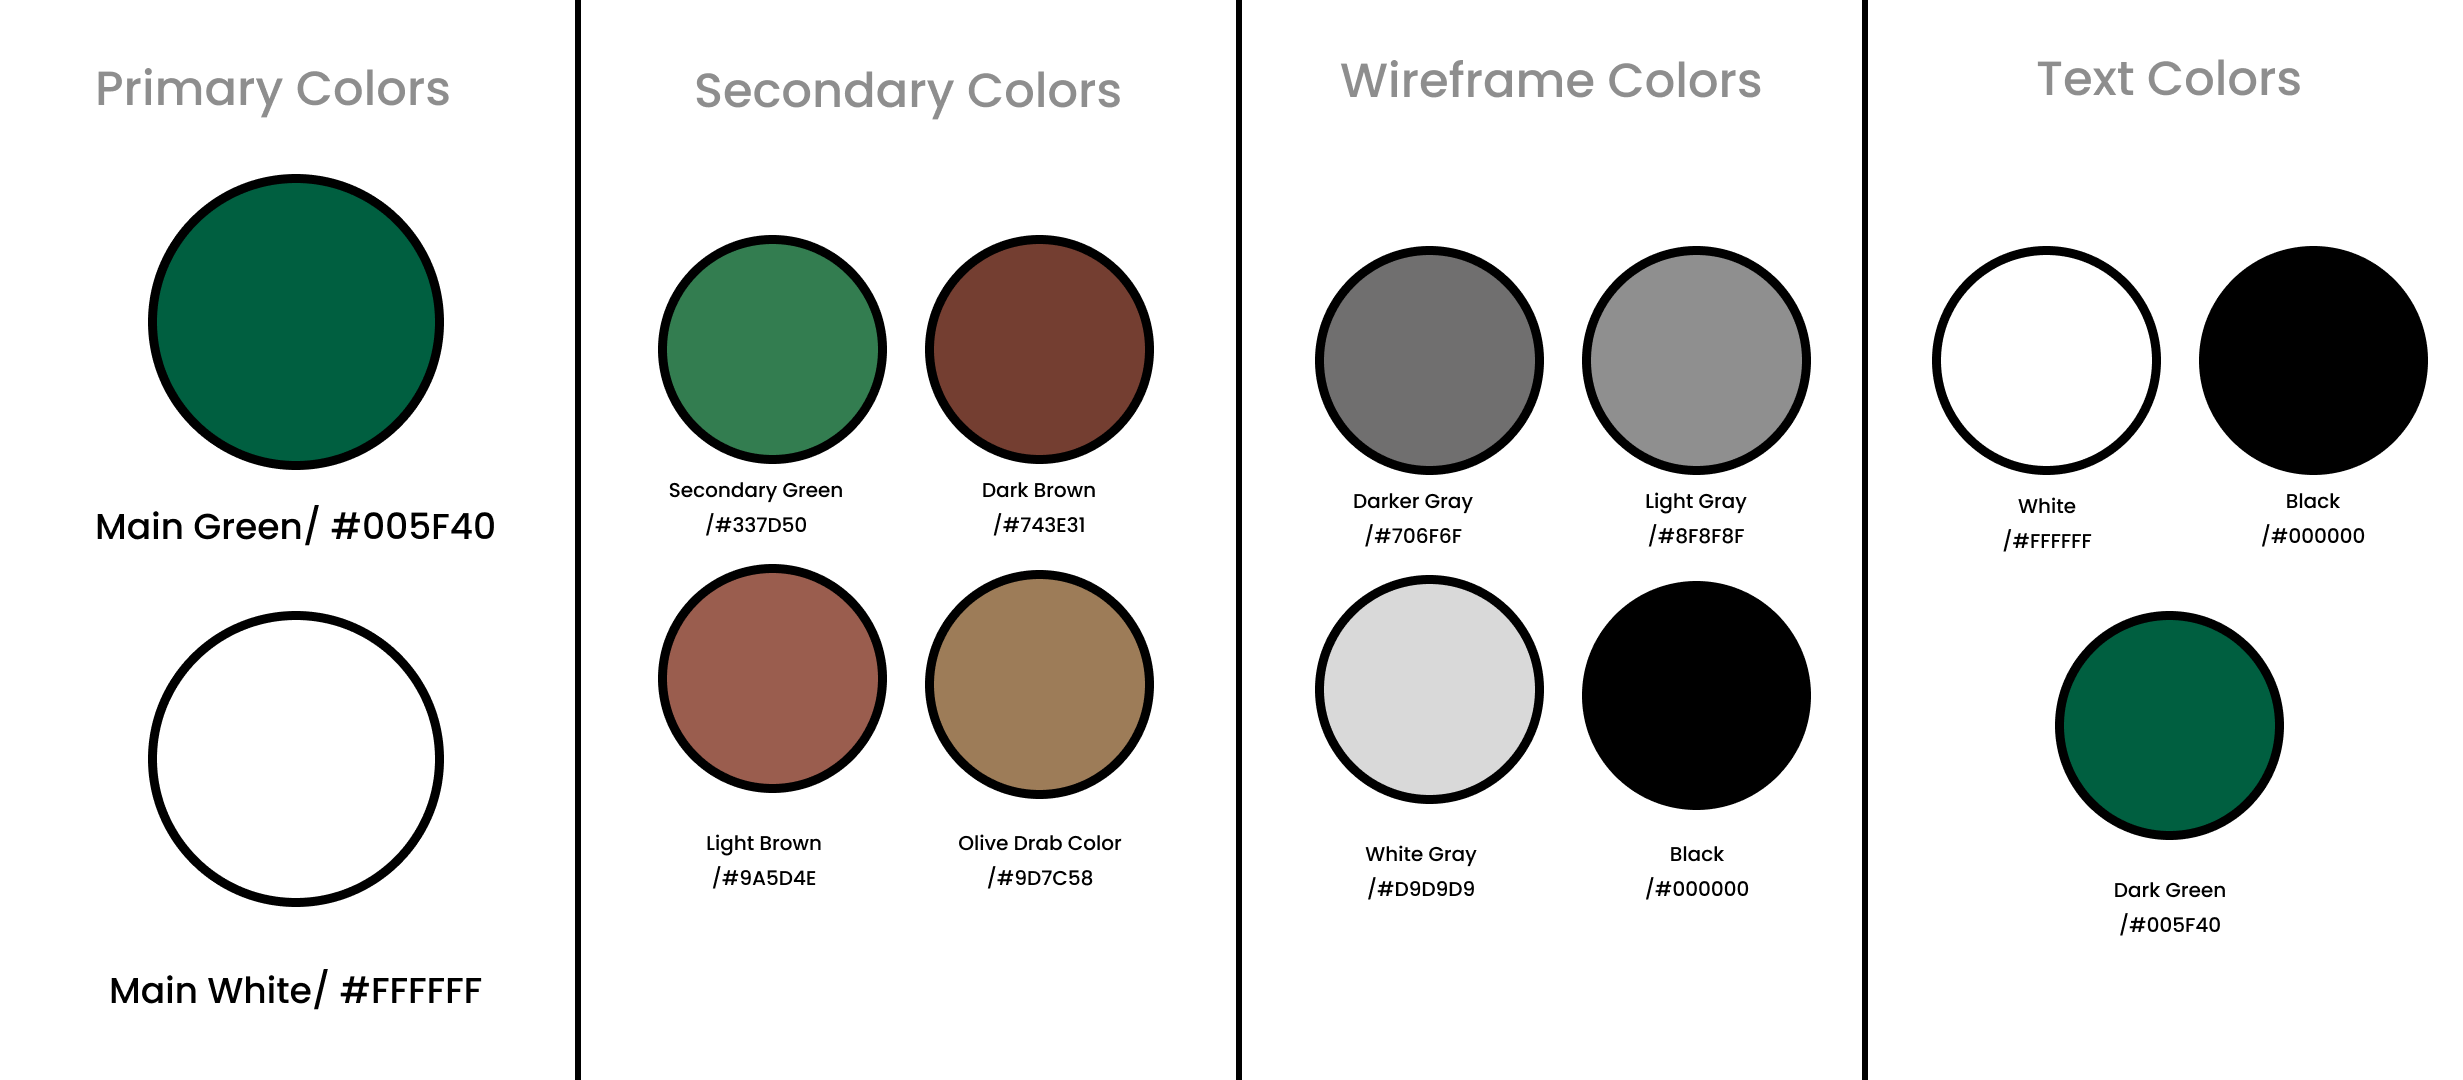
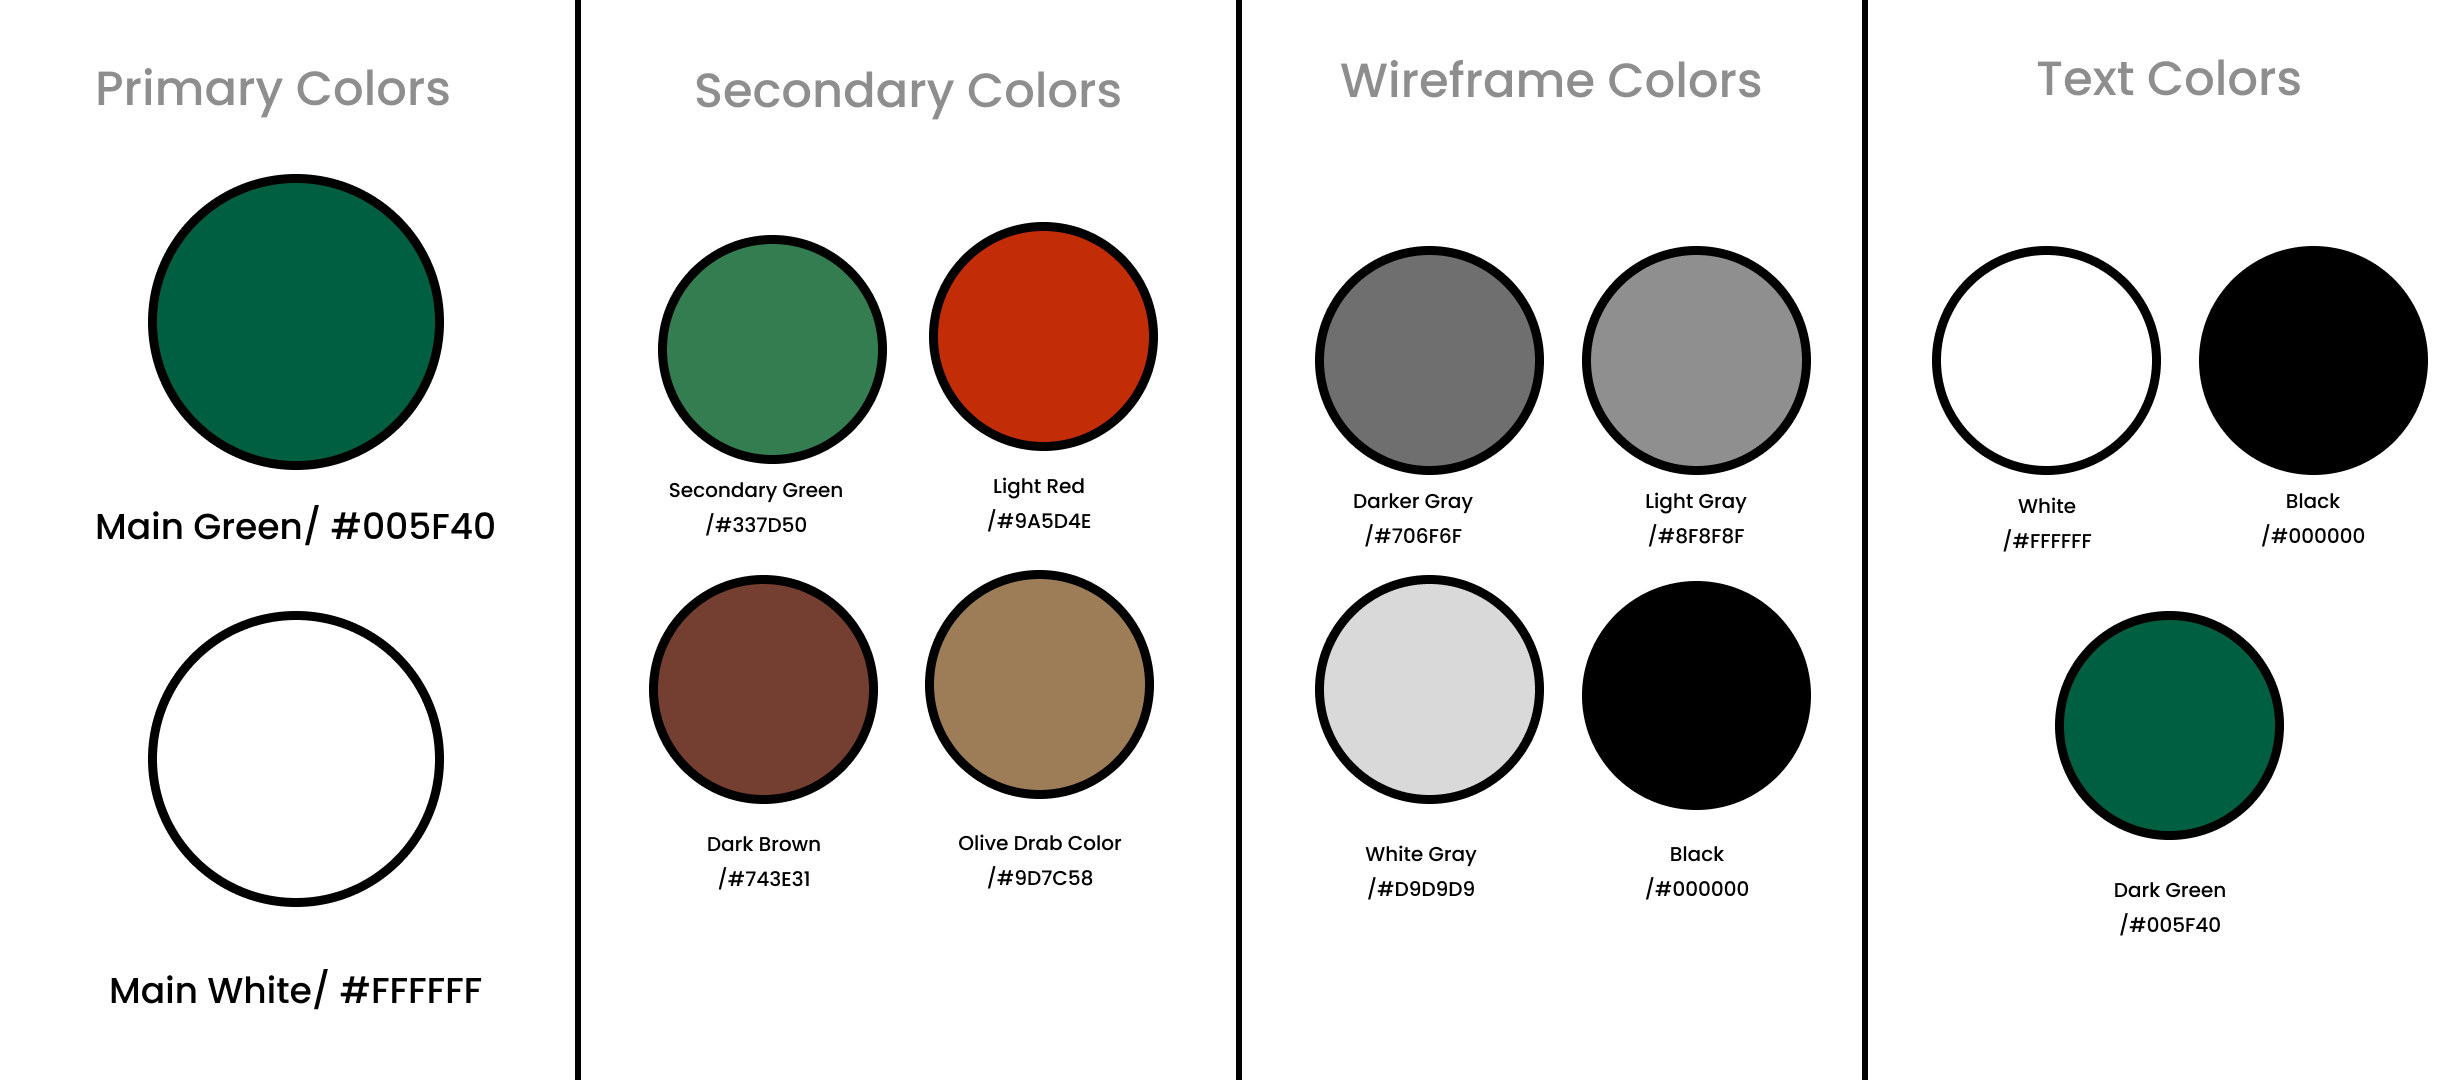
Update README.md

Changed region(s): [[0.2469, 0.5194, 0.3703, 0.825], [0.3703, 0.1833, 0.4937, 0.4889]]

diff --git a/README.md b/README.md
@@ -1682,17 +1682,43 @@ Poppins Bold: para títulos principales.
 <img src="resources/CAPITULO6/Tipografia.png">
 
 **Colors**  
-El sistema de color de TomateRitmo se basa en la psicología del color aplicada al contexto agrícola. Los colores principales definidos son:
+El sistema de color de **TomateRitmo** fue definido estratégicamente para generar una experiencia visual alineada con los valores del producto: sostenibilidad, precisión tecnológica y conexión con la tierra. La paleta se divide en colores primarios, secundarios, de wireframe y de texto, todos aplicados de manera consistente a lo largo de la interfaz.
 
-Verde (#4CAF50): representa vida, frescura y salud del cultivo.
+**Colores Primarios**  
+- **Main Green**: `#005F40`  
+  Representa la esencia de lo natural, frescura y vitalidad. Es el color predominante en botones primarios, encabezados destacados y fondo del header.  
+- **Main White**: `#FFFFFF`  
+  Se utiliza como base de la interfaz para brindar claridad, limpieza visual y contraste con los componentes de acción.
 
-Marrón (#795548): conecta con la tierra, estabilidad y entorno rural.
+**Colores Secundarios**  
+- **Secondary Green**: `#337D50`  
+  Refuerza la identidad vegetal en secciones complementarias y hover states.  
+- **Light Red**: `#9A5D4E`  
+  Inspirado en el color del tomate maduro, este tono aporta calidez y cercanía a la interfaz. Se utiliza en secciones visuales clave para reforzar la identidad del cultivo y también en botones o detalles gráficos que buscan llamar la atención del usuario.  
+- **Dark Brown**: `#743E31`  
+  Comunica firmeza y conexión con el suelo agrícola, usado en fondos secundarios o acentos visuales.  
+- **Olive Drab**: `#9D7C58`  
+  Color de soporte para distinguir tarjetas informativas, etiquetas o botones secundarios.
 
-Grises neutros: usados en wireframes para facilitar decisiones estructurales antes de aplicar branding visual.
+**Colores para Wireframes**  
+Estos colores fueron usados en las etapas tempranas del diseño (mock-ups estructurales) para construir jerarquía visual sin interferencias cromáticas:
 
-Esta paleta crea una atmósfera de confianza y armonía visual que refuerza el vínculo con la naturaleza y la tecnología amigable.
+- **Darker Gray**: `#706F6F`  
+- **Light Gray**: `#8F8F8F`  
+- **White Gray**: `#D9D9D9`  
+- **Black**: `#000000`
+
+**Colores de Texto**  
+Para mantener un contraste óptimo y buena legibilidad, se definieron tres variantes principales:
+
+- **Black**: `#000000` para encabezados, texto de cuerpo y elementos clave.
+- **White**: `#FFFFFF` en botones o fondos oscuros.
+- **Dark Green**: `#005F40`, usado ocasionalmente en subtítulos o destacados para mantener unidad con la identidad visual.
+
+Esta paleta no solo cumple una función estética, sino que también aporta al reconocimiento visual de los elementos interactivos, estados del sistema y diferenciación de contenido en la interfaz.
 
 <img src="resources/CAPITULO6/Colores.png">
+
 
 **Spacing**  
 El espaciado dentro de la interfaz sigue un sistema modular con márgenes y paddings uniformes (8px, 16px, 24px, etc.), facilitando el orden visual y la alineación de elementos. Este esquema se adapta a los distintos tamaños de pantalla mediante reglas de diseño responsive, garantizando una distribución consistente en desktop, tablet y mobile.
